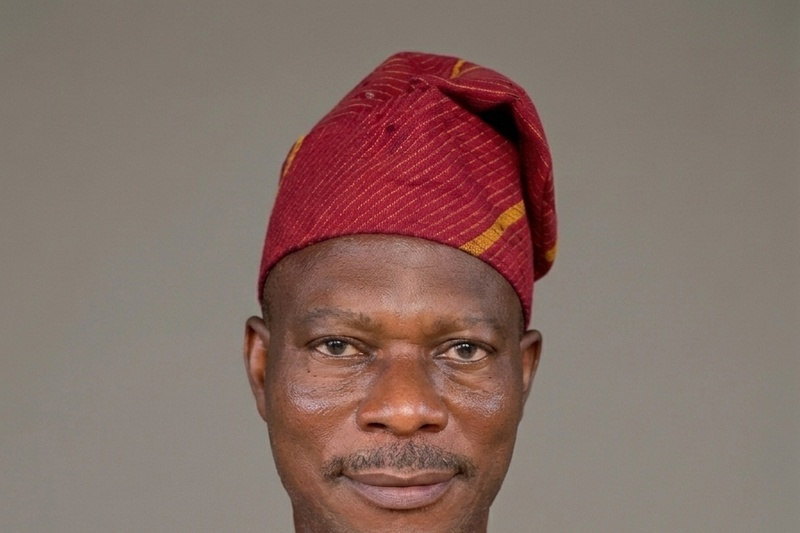
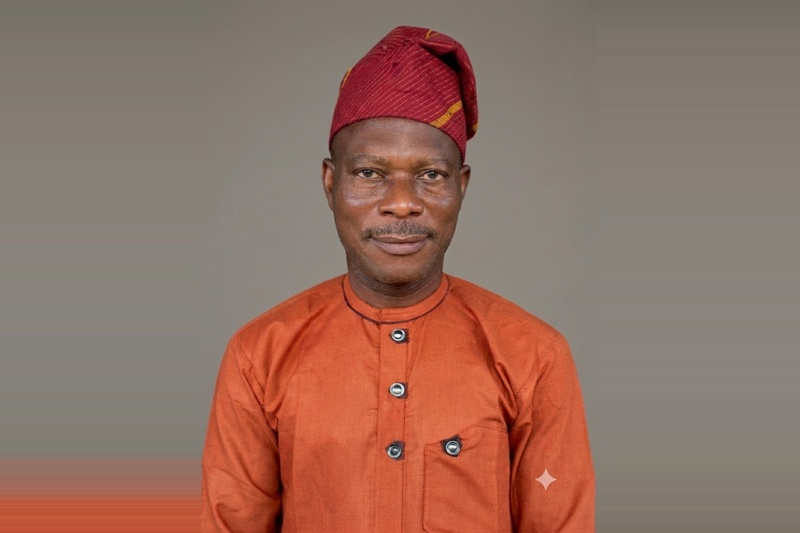
Update Ibadan Area card with seamless full-card photo (ibadan_pastor_v2.jpg)

diff --git a/about.html b/about.html
@@ -271,7 +271,7 @@
         </div>
       </div>
       <div class="bg-white rounded-xl overflow-hidden shadow-sm hover:shadow-lg transition-all">
-        <div class="overflow-hidden rounded-t-xl" style="height:320px;background-color:#a1978e;"><img style="width:100%;height:100%;object-fit:cover;object-position:center 15%;" src="ibadan_pastor_v2.jpg?v=2" alt="Ibadan Area - Pastor Samuel Olorundare" loading="eager" fetchpriority="high"></div>
+        <div class="overflow-hidden rounded-t-xl" style="height:320px;"><img style="width:100%;height:100%;object-fit:cover;" src="ibadan_pastor_v2.jpg?v=4" alt="Ibadan Area - Pastor Samuel Olorundare" loading="eager" fetchpriority="high"></div>
         <div class="p-6">
           <div class="flex items-center gap-2 mb-3"><span class="material-symbols-outlined text-primary" style="font-variation-settings:'FILL' 1;">location_on</span><h3 class="text-headline-sm text-on-background">Ibadan Area</h3></div>
           <p class="text-body-md text-on-surface-variant">Covering parishes in Ibadan and its environs. Led by Pastor Samuel Olorundare.</p>
